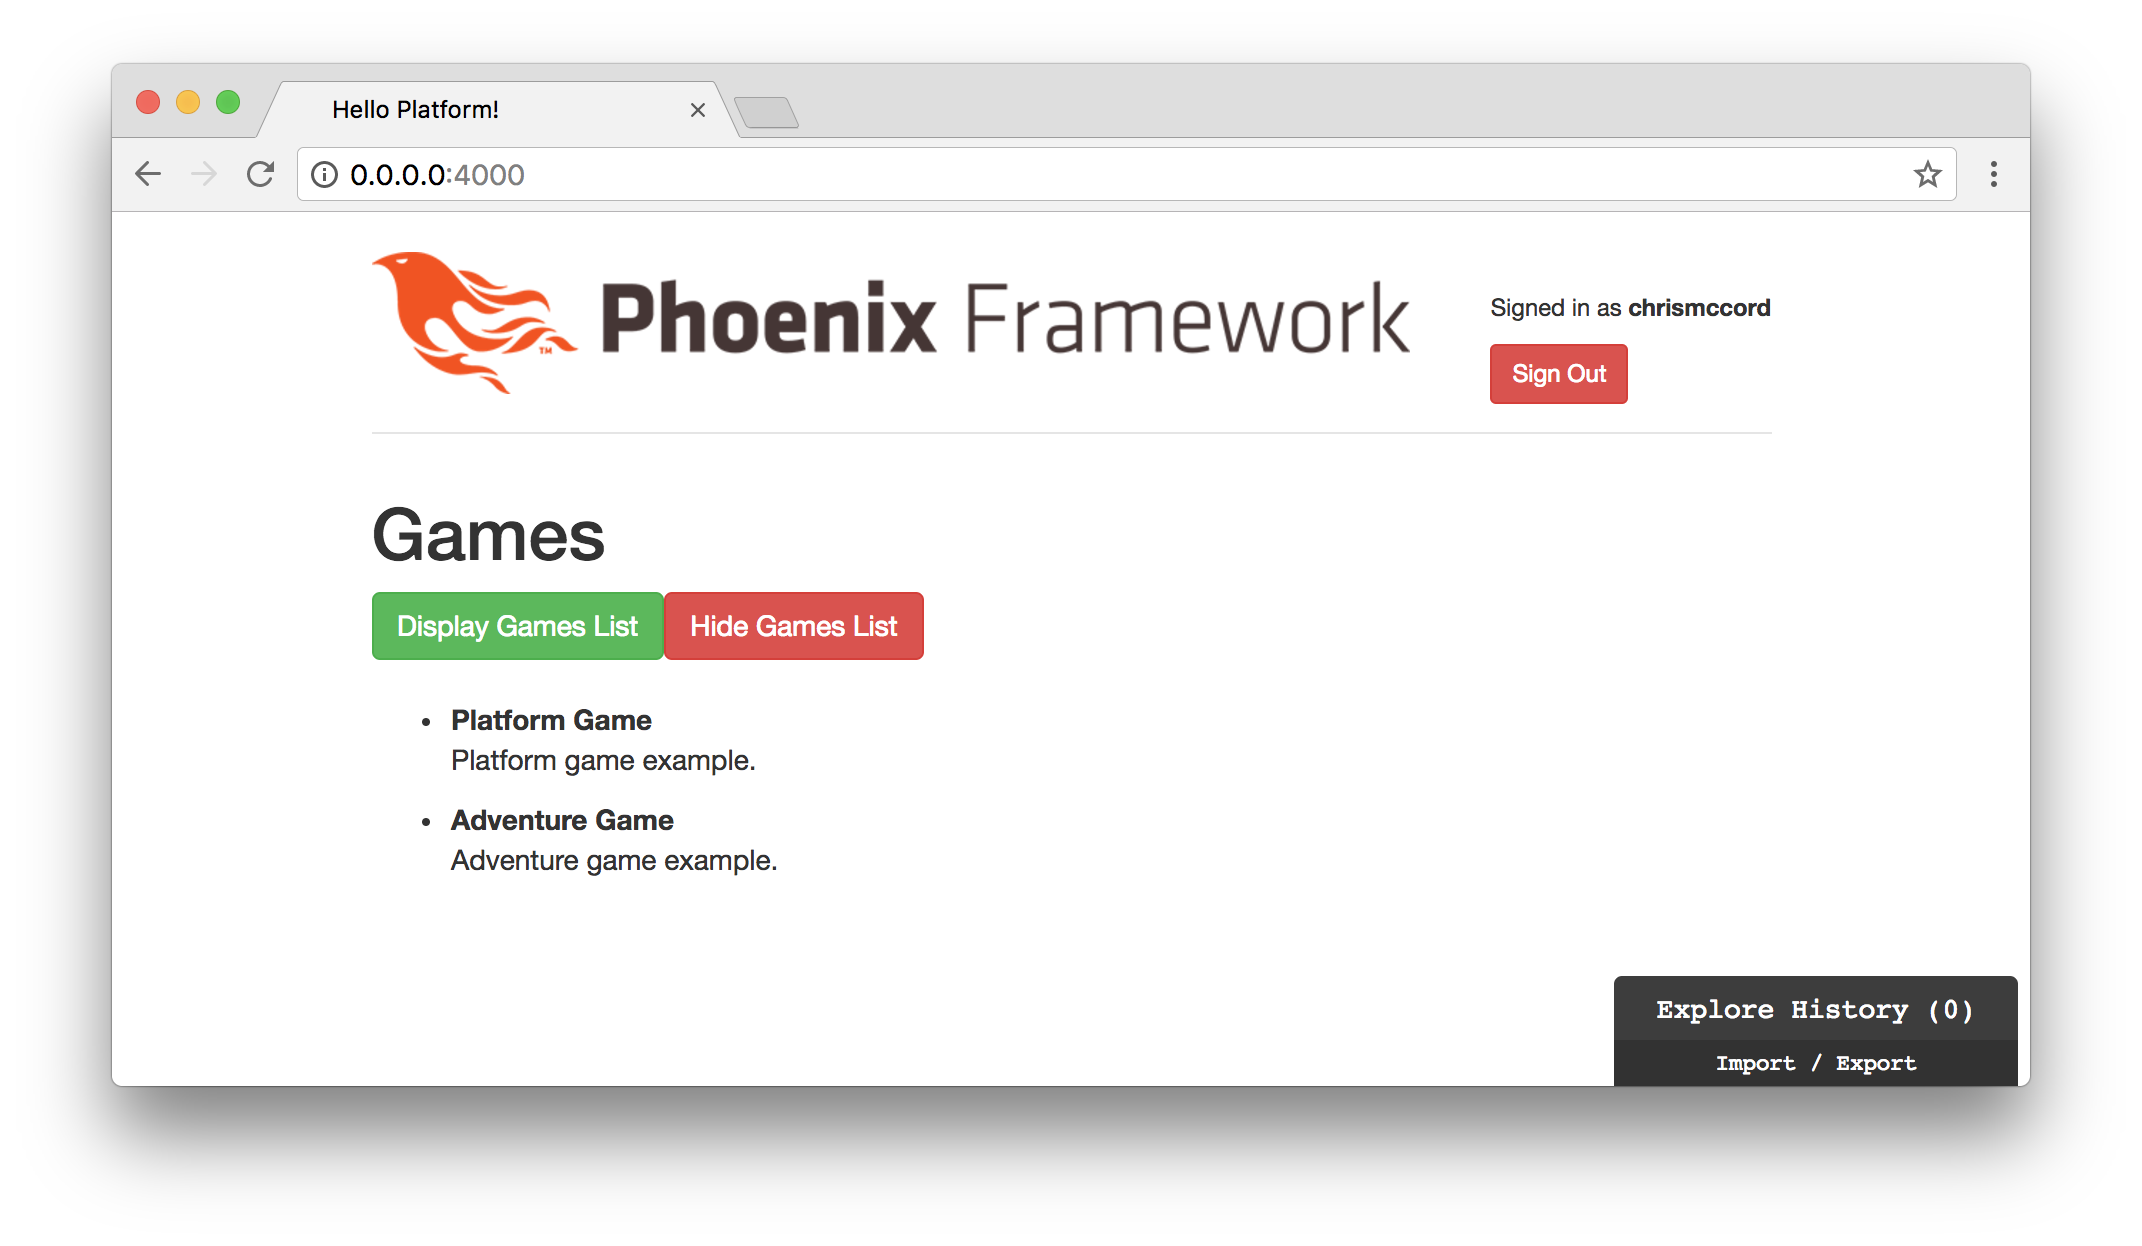
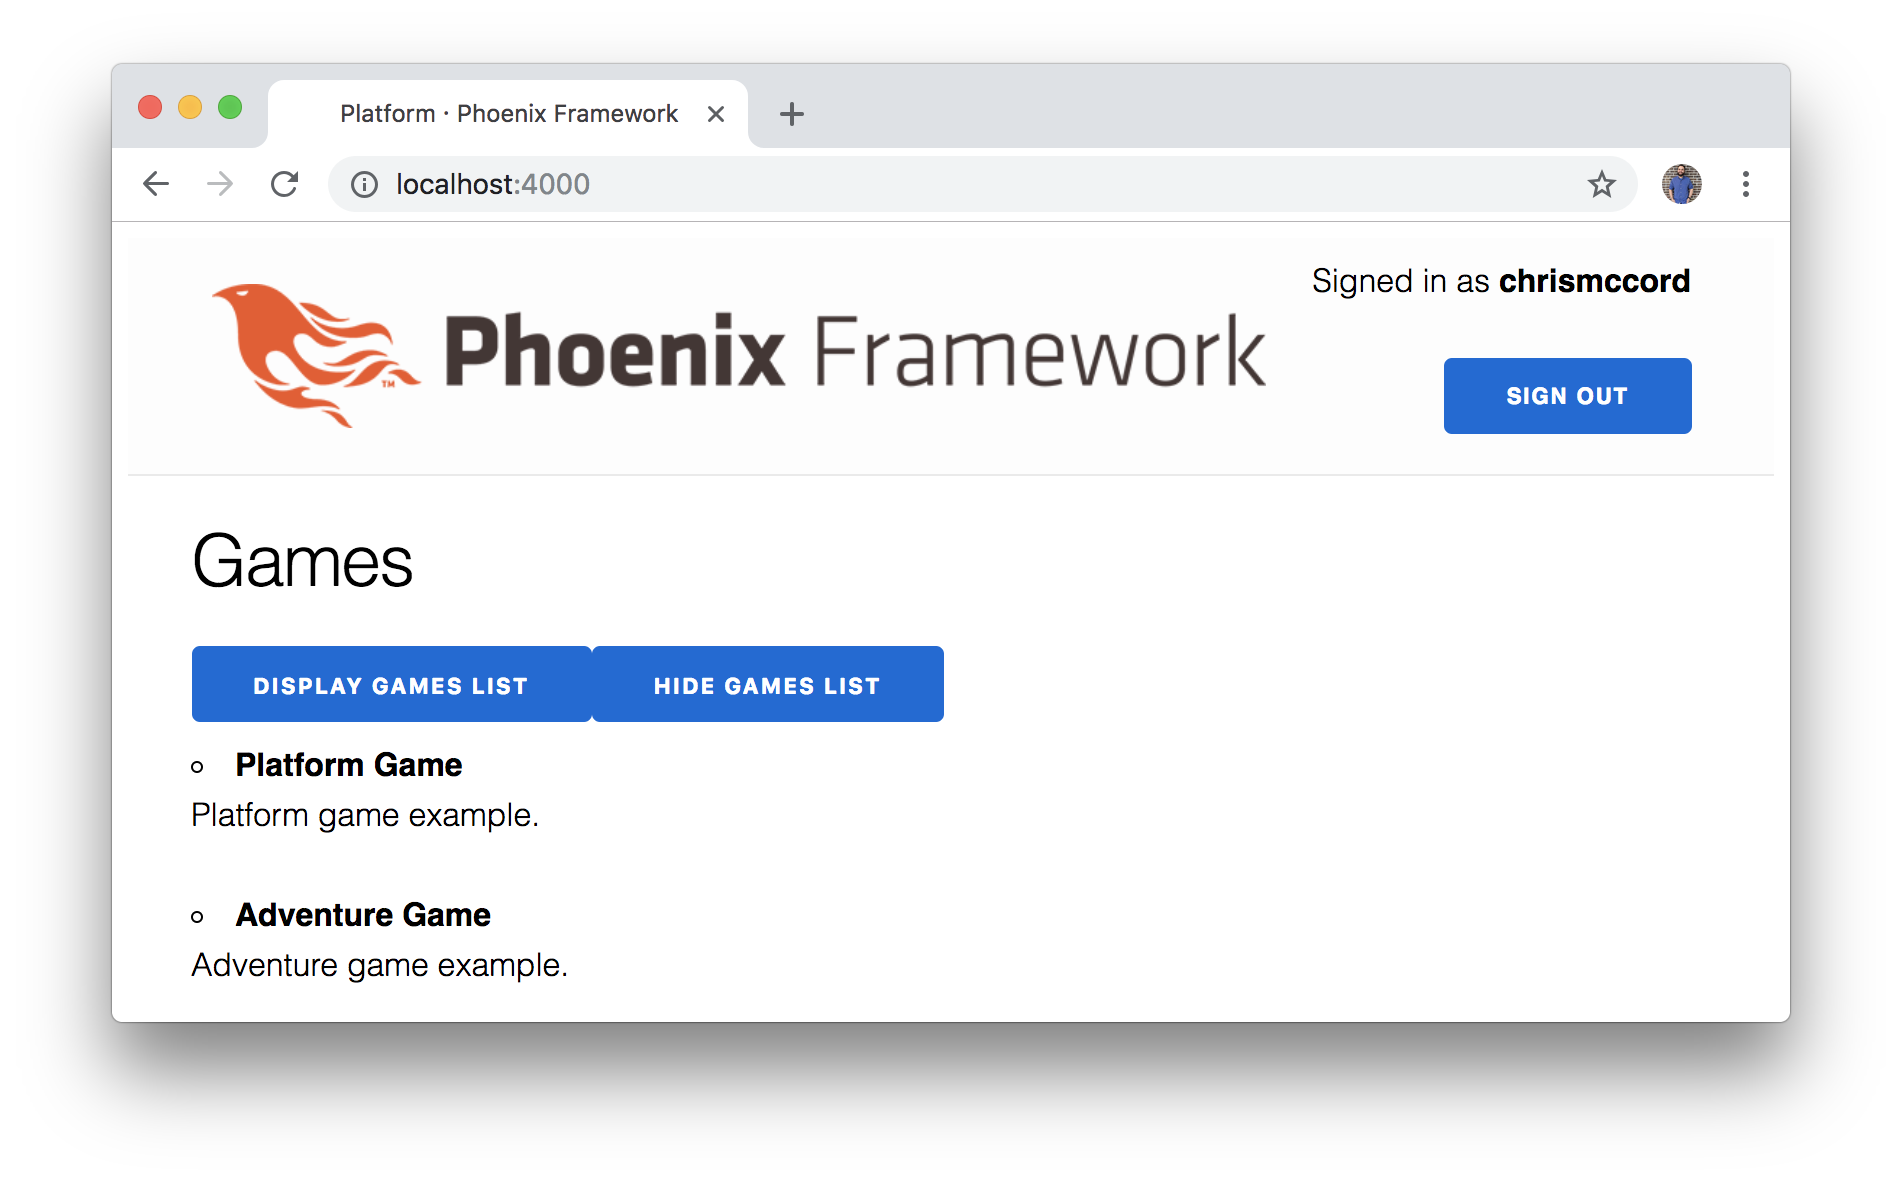
Update images and finish Elm Architecture chapter

Changed region(s): [[0.031, 0.0609, 0.9616, 0.8832], [0.0931, 0.3959, 0.4963, 0.7005], [0.0931, 0.7614, 0.3102, 0.8223]]

diff --git a/manuscript/elm_architecture.md b/manuscript/elm_architecture.md
@@ -364,55 +364,75 @@ view : Model -> Html Msg
 view model =
     div []
         [ h1 [ class "games-section" ] [ text "Games" ]
-        , button [ class "btn btn-success" ] [ text "Display Games List" ]
-        , button [ class "btn btn-danger" ] [ text "Hide Games List" ]
+        , button [ class "button" ] [ text "Display Games List" ]
+        , button [ class "button" ] [ text "Hide Games List" ]
         ]
 ```
 
 These `button` elements won't be fully functioning yet, but the good news is
 that we finally have enough code to start displaying our application in the
-browser. Let's add our `main` function, and we'll come back to the `view` so
-we can get all our features working.
+browser. We'll import Elm's `Browser` module and update our `main` function,
+and then we can come back to the `view` to get all our features working.
 
-## The Main Function
+## The Browser Module
 
-Let's go back to the top of our `Main.elm` file and add the following `main`
-function back in just below the `import` declarations. This code is how the Elm
-runtime pulls all the different functions we've created together:
+The
+[Browser](https://package.elm-lang.org/packages/elm/browser/latest/Browser#element)
+module allows us to create different types of Elm applications for web
+browsers, depending on our needs. Simple applications can use `Browser.sandbox`,
+whereas full single page apps (SPAs) can use `Browser.application`.
+
+We're going to get started with `Browser.element`, which will allow us to tie
+all of our work together and embed our Elm program within our Phoenix
+application.
+
+Go back to the top of our `Main.elm` file and import the `Browser` module above
+the existing imports:
 
 ```elm
-main : Program Never Model Msg
+import Browser
+import Html exposing (..)
+import Html.Attributes exposing (..)
+```
+
+Now we can update our `main` function with the following:
+
+```elm
 main =
-    Html.program
+    Browser.element
         { init = init
-        , view = view
         , update = update
         , subscriptions = subscriptions
+        , view = view
         }
 ```
 
 Adding our `main` function means we'll need to initialize our model with an
-`init` function. Add the following below the `initialModel` function:
+`init` function. Add the following below the `initialModel`:
 
 ```elm
-init : ( Model, Cmd Msg )
-init =
+init : () -> ( Model, Cmd Msg )
+init _ =
     ( initialModel, Cmd.none )
 ```
 
 This code tells Elm that we want to start with the `initialModel` as our data.
-We don't need to worry too much about `Cmd` yet, but it will basically allow us
-to run a
-["Command"](http://package.elm-lang.org/packages/elm-lang/core/latest/Platform-Cmd)
-in Elm to fetch additional data. We're going to cover Elm commands in detail in
-the next chapter, but for now we can just think of a command as an action that
-may succeed or fail. For instance, we could perform an HTTP request when we
-start our Elm application to gather initial data, and we'd have to handle the
-situations where that HTTP fetch was successful and situations where that might
-fail to fetch the data.
 
-With these changes to our model, we'll have to change our `update` function
-too:
+Elm also allows us to use "flags" if we want to pull in information from
+outside the application. When you see the empty tuple `()` as an argument, that
+just means we're choosing not to pull in additional data when we initialize our
+Elm application. We'll see more on this topic later in the book as we pull user
+data from Phoenix into our Elm application.
+
+We're also using `Cmd.none`, which means we don't need to worry about Elm
+["Commands"](http://package.elm-lang.org/packages/elm-lang/core/latest/Platform-Cmd)
+yet. We'll cover Elm commands in detail in the next chapter, but for now we can
+just think of a command as an action that may succeed or fail. For instance, we
+could perform an HTTP request when we start our Elm application to gather
+initial data, and we'd have to handle the situations where that HTTP fetch was
+successful as well as situations where it might fail to fetch the data.
+
+With the changes we made above, we'll have to change our `update` function too:
 
 ```elm
 update : Msg -> Model -> ( Model, Cmd Msg )
@@ -427,8 +447,8 @@ update msg model =
 
 At this point, our `main` function is pulling everything together and we're
 finally able to see our application rendered to the screen in the browser.
-Our buttons aren't set up to work yet, but we're now able to see them rendering
-on the screen.
+Our buttons aren't set up to work yet, but we're finally able to see them on
+the screen.
 
 ![Working Application Using Elm Architecture](images/elm_architecture/working_elm_application.png)
 
@@ -445,10 +465,11 @@ view : Model -> Html Msg
 view model =
     div []
         [ h1 [ class "games-section" ] [ text "Games" ]
-        , button [ class "btn btn-success" ] [ text "Display Games List" ]
-        , button [ class "btn btn-danger" ] [ text "Hide Games List" ]
+        , button [ class "button" ] [ text "Display Games List" ]
+        , button [ class "button" ] [ text "Hide Games List" ]
         , gamesIndex model
         ]
+
 
 gamesIndex : Model -> Html msg
 gamesIndex model =
@@ -503,8 +524,8 @@ view : Model -> Html Msg
 view model =
     div []
         [ h1 [ class "games-section" ] [ text "Games" ]
-        , button [ class "btn btn-success", onClick DisplayGamesList ] [ text "Display Games List" ]
-        , button [ class "btn btn-danger", onClick HideGamesList ] [ text "Hide Games List" ]
+        , button [ class "button", onClick DisplayGamesList ] [ text "Display Games List" ]
+        , button [ class "button", onClick HideGamesList ] [ text "Hide Games List" ]
         , gamesIndex model
         ]
 ```
@@ -523,8 +544,8 @@ view : Model -> Html Msg
 view model =
     div []
         [ h1 [ class "games-section" ] [ text "Games" ]
-        , button [ class "btn btn-success", onClick DisplayGamesList ] [ text "Display Games List" ]
-        , button [ class "btn btn-danger", onClick HideGamesList ] [ text "Hide Games List" ]
+        , button [ class "button", onClick DisplayGamesList ] [ text "Display Games List" ]
+        , button [ class "button", onClick HideGamesList ] [ text "Hide Games List" ]
         , if model.displayGamesList then
             gamesIndex model
           else
@@ -550,14 +571,8 @@ gamesListItem game =
         ]
 ```
 
-We should be able to click the buttons and see the list of games displayed or
-hidden based on our interactions:
-
-![Working Buttons to Display and Hide the List of Games](images/elm_architecture/working_button_interactions.png)
-
-Now that we're changing state in our application, we can also start using the
-Elm debugger by clicking the Explore History tab at the bottom right corner of
-the browser to see changes to our model as they occur over time.
+We should now be able to click the buttons and see the list of games displayed
+or hidden based on our user interactions!
 
 ## Summary
 
